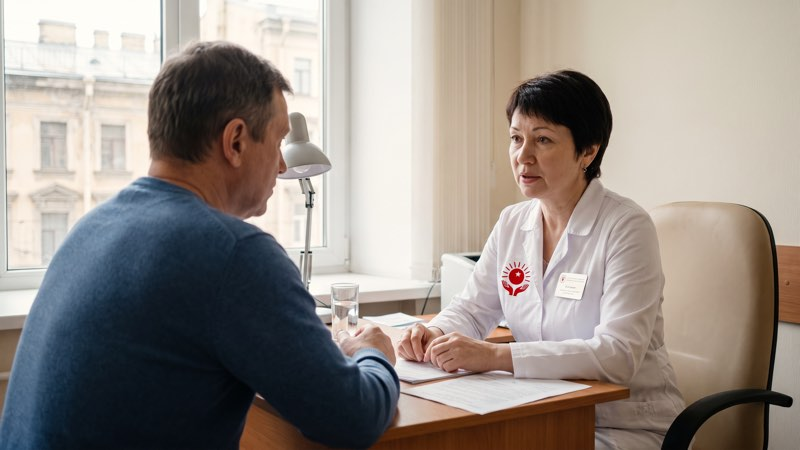
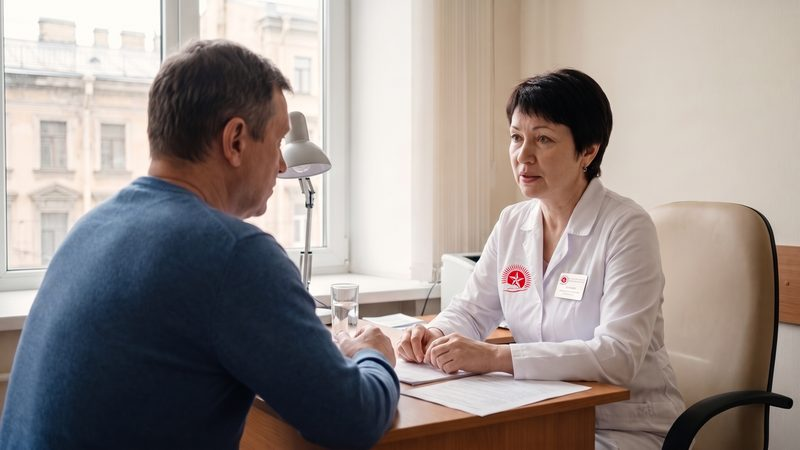
Vacancy page expanded, emblem fix on etapy photo

diff --git a/vakansii.html b/vakansii.html
@@ -33,8 +33,8 @@
     {
       "@type": "JobPosting",
       "title": "Врач-психиатр",
-      "description": "<p>Академический Медицинский Центр (Санкт-Петербург, ул. Садовая, 56) ищет врача-психиатра. Центр работает с 1992 года и помогает людям с алкогольной, никотиновой и другими зависимостями: приём в центре, психотерапия, выезд врача на дом.</p><p>Требования: высшее медицинское образование, действующая аккредитация по специальности «Психиатрия».</p><p>График, оплату и формат работы уточняйте по телефону (812) 310-70-24.</p>",
-      "datePosted": "2026-11-03",
+      "description": "<p>Академический Медицинский Центр (Санкт-Петербург, ул. Садовая, 56) ищет врача-психиатра. Центр работает с 1992 года, создан на базе отделения неврозов ВМА им. С. М. Кирова, помогает взрослым с алкогольной и никотиновой зависимостью и их близким. В центре 29 врачей.</p><p>Задачи: консультации пациентов и оценка психического состояния, помощь при тревоге, депрессии и бессоннице у пациентов с зависимостью, консультации родственников, работа вместе с наркологами и психотерапевтами, ведение медицинской документации.</p><p>Требования: высшее медицинское образование, действующая аккредитация по специальности «Психиатрия», готовность работать анонимно и соблюдать врачебную тайну.</p><p>График, оплату и формат работы (полная или частичная занятость) уточняйте по телефону (812) 310-70-24.</p>",
+      "datePosted": "2026-11-05",
       "validThrough": "2027-02-28",
       "employmentType": [
         "FULL_TIME",
@@ -65,7 +65,9 @@
         "@type": "EducationalOccupationalCredential",
         "credentialCategory": "Высшее медицинское образование"
       },
-      "directApply": false
+      "directApply": false,
+      "responsibilities": "Консультации пациентов, помощь при тревоге, депрессии и бессоннице у пациентов с зависимостью, консультации родственников, совместная работа с наркологами и психотерапевтами, ведение медицинской документации.",
+      "qualifications": "Высшее медицинское образование, действующая аккредитация по специальности «Психиатрия»."
     },
     {
       "@type": "BreadcrumbList",
@@ -205,16 +207,51 @@
       <h2>Кого мы ищем</h2>
       <p>Врача-психиатра, которому интересна работа с зависимостями и с теми, кто рядом с зависимым человеком: тревога, депрессия, бессонница, созависимость. Нам важно, чтобы врач умел спокойно и уважительно разговаривать с пациентом и его семьёй.</p>
 
+      <h2>С чем предстоит работать</h2>
+      <p>К нам обращаются взрослые люди с алкогольной и никотиновой зависимостью и их близкие. Очень часто рядом с зависимостью идут тревога, подавленное настроение, нарушения сна, особенно после запоя и в первые месяцы трезвости. Врачу-психиатру в центре предстоит:</p>
+      <ul>
+        <li>консультировать пациентов и оценивать их психическое состояние;</li>
+        <li>помогать пациентам с тревогой, депрессией и бессонницей, которые мешают удержаться от алкоголя;</li>
+        <li>консультировать родственников, которые живут рядом с пьющим человеком;</li>
+        <li>вместе с наркологами и психотерапевтами центра выбирать подход к лечению;</li>
+        <li>вести медицинскую документацию.</li>
+      </ul>
+      <p>Центр работает только со взрослыми пациентами. Точный круг задач обсудим на собеседовании.</p>
+
       <h2>Требования</h2>
       <ul>
         <li>Высшее медицинское образование.</li>
         <li>Действующая аккредитация по специальности «Психиатрия».</li>
         <li>Готовность работать с пациентами анонимно и соблюдать врачебную тайну.</li>
+        <li>Умение спокойно говорить с человеком, которому стыдно и страшно, и с его семьёй.</li>
       </ul>
       <p>Если у вас есть опыт в наркологии или психотерапии, расскажите об этом при звонке.</p>
 
+      <h2>Почему у нас</h2>
+      <ul>
+        <li><strong>Больше 30 лет работы.</strong> Центр открыт в 1992 году на базе отделения неврозов Военно-медицинской академии, многие врачи выпускники ВМА.</li>
+        <li><strong>Команда.</strong> В центре 29 врачей: наркологи, психотерапевты и другие специалисты, с которыми можно обсудить сложного пациента.</li>
+        <li><strong>Понятный режим.</strong> Центр принимает пациентов ежедневно с 9:00 до 17:00.</li>
+        <li><strong>Место.</strong> Исторический центр Петербурга, угол Садовой улицы и Вознесенского проспекта.</li>
+        <li><strong>Работа по лицензии.</strong> Лицензия № 78-01-002677 от 06.04.2012, выдана Комитетом по здравоохранению Санкт-Петербурга.</li>
+      </ul>
+      <p>Подробнее о центре и его основателе на странице <a href="history.html">история центра</a>.</p>
+
       <h2>Условия</h2>
       <p>График, оплату, формат работы (полная занятость или часть дня) и дату выхода обсудим по телефону. Работа в центре на Садовой улице, д. 56.</p>
+
+      <h2>Как проходит отбор</h2>
+      <ul>
+        <li><strong>Звонок.</strong> Вы звоните по номеру <a href="tel:+78123107024">(812) 310-70-24</a>, коротко рассказываете о себе и опыте и задаёте вопросы об условиях.</li>
+        <li><strong>Собеседование.</strong> Если обеим сторонам интересно, договариваемся о встрече в центре на Садовой.</li>
+        <li><strong>Оформление.</strong> Понадобятся документы об образовании и аккредитации.</li>
+      </ul>
+
+      <h2>Частые вопросы</h2>
+      <p><strong>Можно ли откликнуться без опыта в наркологии?</strong> Расскажите о своём опыте при звонке, и мы вместе обсудим, подходит ли вам вакансия.</p>
+      <p><strong>Можно ли работать неполный день?</strong> Формат работы, в том числе частичную занятость, обсуждаем по телефону.</p>
+      <p><strong>С какими пациентами работает центр?</strong> Только со взрослыми: с алкогольной и никотиновой зависимостью и их близкими.</p>
+      <p><strong>Можно ли прислать резюме?</strong> Сейчас отклики принимаем только по телефону. Позвоните, и мы договоримся, как удобнее познакомиться.</p>
 
       <h2>Как откликнуться</h2>
       <p>Позвоните по телефону <a href="tel:+78123107024">(812) 310-70-24</a> и скажите, что звоните по вакансии врача-психиатра. Для уточнения деталей звоните по этому же номеру.</p>

diff --git a/notes/STATUS.md b/notes/STATUS.md
@@ -65,6 +65,7 @@ python3 deploy.py           залить (только изменившиеся 
 
 - 31.10: **внешние площадки**: список, где бесплатно публиковаться и размещать клинику (каталоги, Дзен, ВК/Telegram, Пикабу, VC.ru, Т-Бизнес секреты, Teletype, справочники, сайты вопросов к врачам, фид «Врачи» в Яндекс Вебмастере), лежит в проекте claude.ai: claude/vneshnie-ploshchadki-2026-10.md. Для фида «Врачи» сначала нужны страницы врачей на сайте.
 
+- 05.11: вакансия расширена (задачи, почему у нас, отбор, частые вопросы, responsibilities в JobPosting), исправлена эмблема на blog/etapy-lecheniya-alkogolizma (было солнце с двумя ладонями). Эмблемы на всех остальных фото с врачами проверены крупно: верные. Залито.
 - 05.11: **6 новых статей, залиты 05.11** (вместе с вакансией, фото и эмблемами от 03.11; IndexNow 58 адресов) для тех, кто выбирает клинику, без названий конкурентов (решение пользователя: статьи «про Лазарева» не делаем, 38-ФЗ/135-ФЗ и товарный знак): kak-vybrat-narkologicheskuyu-kliniku, chastnaya-ili-gosudarstvennaya-narkologiya, skolko-stoit-vyvod-iz-zapoya, otzyvy-o-narkologicheskih-klinikah, ambulatornoe-lechenie-alkogolizma, pervyj-priem-u-narkologa (тема «как проверить лицензию» по просьбе пользователя заменена на первый приём). Фото Higgsfield. Объём 730-980 слов по счётчику blog.py (старые 1100-1300): можно дописать. Вопросы к врачам в ::: questions.
 - 03.11 (вечер): **Яндекс Бизнес**: на модерации публикация «Нарколог на дом в Московском районе» (текст, фото врача, картинка маршрута assets/img/uslugi/marshrut-moskovskij-prospekt.jpg, исходник notes/tmp/route-card.html), истории «Акции» (кнопка «Цены и акции» на price-and-services.html) и «О центре» (кнопка «История центра» на history.html), слайды 1280x1920 в notes/tmp/stories (HTML + jpg; полоса «Имеются противопоказания» поднята на 210 px от низа, иначе её закрывает кнопка истории), логотип (notes/tmp/logo-yandex-1024.png из logo.svg). Главным фото карточки сделано фото зелёного углового здания (от пользователей), раньше была витрина с машинами. Акции в истории до 31.12.2026: потом историю убрать или обновить. Есть шаблон истории «Покажите, как к вам пройти»: туда маршрут. Фото в раздел «Услуги» (4 настоящих: clinic-0695, 0611, 0621, 0741), на модерации; Яндекс пишет «Мало фото», можно добавить clinic-0659 и 0738.
 - 03.11 (вечер): **залито 05.11, кроме схемы проезда** (пользователь: схему на страницу Московского района не ставить; врезка ::: route в blog.py и CSS остались без использования): (1) исправлена эмблема на фото kapelnica-ot-zapoya (было выдуманное солнце) и blog/uchet-u-narkologa (был крест со змеёй), остальные фото проверены. (2) Новое фото врача для narkolog-moskovskij-rajon (старое «как будто сам пьёт»). (3) Страница `vakansii.html` (врач-психиатр, JobPosting, отклик по (812) 310-70-24, условия «по телефону»: зарплату и график не знаем), ссылка «Вакансии» в подвале всех страниц, sitemap, llms.txt. (4) Новая врезка `::: route` в blog.py (схема остановок и кнопка «Построить маршрут в Яндекс Картах», rtext=~59.922357,30.307427 это центр по Яндекс Картам) и раздел «Как доехать с Московского проспекта» на narkolog-moskovskij-rajon: автобус 50 от м. Московская до ост. «Вознесенский проспект» (67 м), метро до Сенной и 15 мин пешком (960 м); «Парк Победы» и «Фрунзенская» на 03.11 закрыты. **Виджет Яндекс Карт с маршрутом не встраивать: в нём реклама конкурентов-наркологий.** style.css?v=20261107. Публикация в Яндекс Бизнесе про Московский район заполнена в форме (текст и новое фото), не отправлена.
@@ -123,7 +124,7 @@ python3 deploy.py           залить (только изменившиеся 
 
 0000. Админка: в первой карточке цен на главной (prices.json: home[0].desc, «Выведение из запоя амбулаторно в центре») заменить «Оперативная помощь специалистов в центре, круглосуточно.» на «Оперативная помощь в центре с 9:00 до 17:00, выезд на дом круглосуточно» (делает пользователь в /admin/, вкладка «Главная и курение», карточка 1, поле описания). Яндекс Бизнес: часы 9:00-17:00 уже верные.
 
-000. Вебмастер и Search Console: отправить на переобход 8 услуг и 12 статей, привязать Метрику в Вебмастере (ждёт разрешения пользователя). Сайт в карточке Яндекс Бизнеса пока не менять: sad56.ru не трогаем.
+000. Вебмастер (05.11): Метрика 113325506 привязана (в Метрике «Привязан к Вебмастеру», в Вебмастере статус обновится после сбоя у Яндекса). «Обход по счётчикам» включить, когда Яндекс починит инструмент. На переобход отправлены 8 услуг + narkolog-centralnyj-rajon + price-and-services (лимит 10 в день). Следующие дни: 4 остальные районные страницы и статьи из sitemap, по 10 в день. Search Console: отправить sitemap заново. Сайт в карточке Яндекс Бизнеса пока не менять: sad56.ru не трогаем. Индекс Яндекса по сайту заморожен с 07.10 (сбой Вебмастера), см. проект claude/yandex-status-2026-11-05.md.
 
 00. Админка залита: пользователю войти на /admin/ паролем из `.admin-password`, поменять одну цену, «Сохранить» и проверить, что она сменилась на главной, в прайсе, в статье о запое и на странице услуги; потом вернуть.
 
